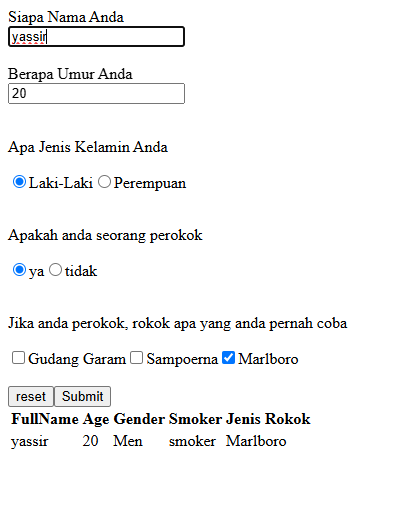
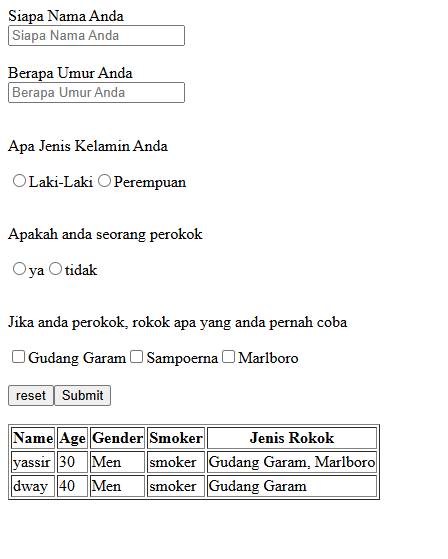
fix: form logic

diff --git a/src/App.jsx b/src/App.jsx
@@ -1,99 +1,100 @@
-import React, { useState } from "react";
+import { useState } from "react";
 
-function Table(props) {
+function Table({ data }) {
   return (
-    <table>
+    <table border="1">
       <thead>
-        <th>FullName</th>
+        <th>Name</th>
         <th>Age</th>
         <th>Gender</th>
         <th>Smoker</th>
         <th>Jenis Rokok</th>
       </thead>
       <tbody>
-        <tr>
-          <td>{props.name}</td>
-          <td>{props.age}</td>
-          <td>{props.gender}</td>
-          <td>{props.smoker}</td>
-          <td>{props.cigarette}</td>
-        </tr>
+        {data.map((item, index) => (
+          <tr key={index}>
+            <td>{item.name}</td>
+            <td>{item.age}</td>
+            <td>{item.gender}</td>
+            <td>{item.smoker}</td>
+            <td>{item.cigarette.join(", ")}</td>
+          </tr>
+        ))}
       </tbody>
     </table>
   );
 }
 
 const App = () => {
-  const [data, setData] = useState([
-    {
-      name: "",
-      age: "",
-      gender: "",
-      smoker: "",
-      cigarette: ""
-    },
-  ]);
+  const [data, setData] = useState([]);
 
   function HandleForm(e) {
     e.preventDefault();
 
-    // console.log(data);
-  }
+    const formData = new FormData(e.target);
+    const newData = {
+      name: formData.get("name") || "",
+      age: formData.get("age") || "",
+      gender: formData.get("gender") || "",
+      smoker: formData.get("smoker") || "",
+      cigarette: formData.getAll("cigarette") || [],
+    };
 
-  function HandleChange(e) {
-    const { name, value } = e.target;
-    setData({ ...data, [name]: value });
+    setData((prevData) => [...prevData, newData]);
+
+    e.target.reset();
   }
 
   return (
     <>
-      <form action="">
+      <form onSubmit={HandleForm}>
         <div>
           <label for="name">Siapa Nama Anda</label> <br />
-          <input type="text" id="name" placeholder="Siapa Nama Anda" name="name" value={data.name} onChange={HandleChange} />
+          <input type="text" id="name" placeholder="Siapa Nama Anda" name="name" />
         </div>
         <br />
         <div>
           <label for="age">Berapa Umur Anda</label> <br />
-          <input type="number" id="age" placeholder="Berapa Umur Anda" name="age" value={data.age} onChange={HandleChange} />
+          <input type="number" id="age" placeholder="Berapa Umur Anda" name="age" />
         </div>
         <br />
         <div>
           <p>Apa Jenis Kelamin Anda</p>
-          <input type="radio" id="gender1" name="gender" value="Men" onChange={HandleChange} />
+          <input type="radio" id="gender1" name="gender" value="Men" />
           <label for="gender1">Laki-Laki</label>
-          <input type="radio" name="gender" id="gender2" value="Woman" onChange={HandleChange} />
+          <input type="radio" name="gender" id="gender2" value="Woman" />
           <label for="gender2">Perempuan</label>
         </div>
         <br />
         <div>
           <p>Apakah anda seorang perokok</p>
           <div>
-            <input type="radio" name="smoker" id="smoker" value="smoker" onChange={HandleChange} />
+            <input type="radio" name="smoker" id="smoker" value="smoker" />
             <label for="smoker">ya</label>
-            <input type="radio" name="smoker" id="smoker" value="non smoker" onChange={HandleChange} />
-            <label for="notSmoker">tidak</label>  
+            <input type="radio" name="smoker" id="smoker" value="non smoker" />
+            <label for="notSmoker">tidak</label>
           </div>
         </div>
         <br />
         <div>
           <p>Jika anda perokok, rokok apa yang anda pernah coba</p>
           <div>
-            <input type="checkbox" id="gudangGaram" name="cigarette" value="Gudang Garam" onChange={HandleChange}/>
+            <input type="checkbox" id="gudangGaram" name="cigarette" value="Gudang Garam" />
             <label for="gudangGaram">Gudang Garam</label>
-            <input type="checkbox" id="sampoerna" name="cigarette" value="Sampoerna" onChange={HandleChange}/>
+            <input type="checkbox" id="sampoerna" name="cigarette" value="Sampoerna" />
             <label for="sampoerna">Sampoerna</label>
-            <input type="checkbox" id="Marlboro" name="cigarette" value="Marlboro" onChange={HandleChange}/>
+            <input type="checkbox" id="Marlboro" name="cigarette" value="Marlboro" />
             <label for="Marlboro">Marlboro</label>
           </div>
         </div>
         <br />
         <button type="reset">reset</button>
-        <button type="submit" value="submit" onClick={(e) => HandleForm(e)}>
+        <button type="submit" value="submit">
           Submit
         </button>
       </form>
-      <Table {...data} />
+      <br />
+      <Table data={data} />
     </>
   );
 };

diff --git a/README.md b/README.md
@@ -1,6 +1,6 @@
 # Form Survey
 
-In this project, I created a form survey using state in react js
+This project is a simple form survey built with React and Vite, utilizing React's useState to manage form data and dynamically render a table of responses.
 
 ## Preview
 
